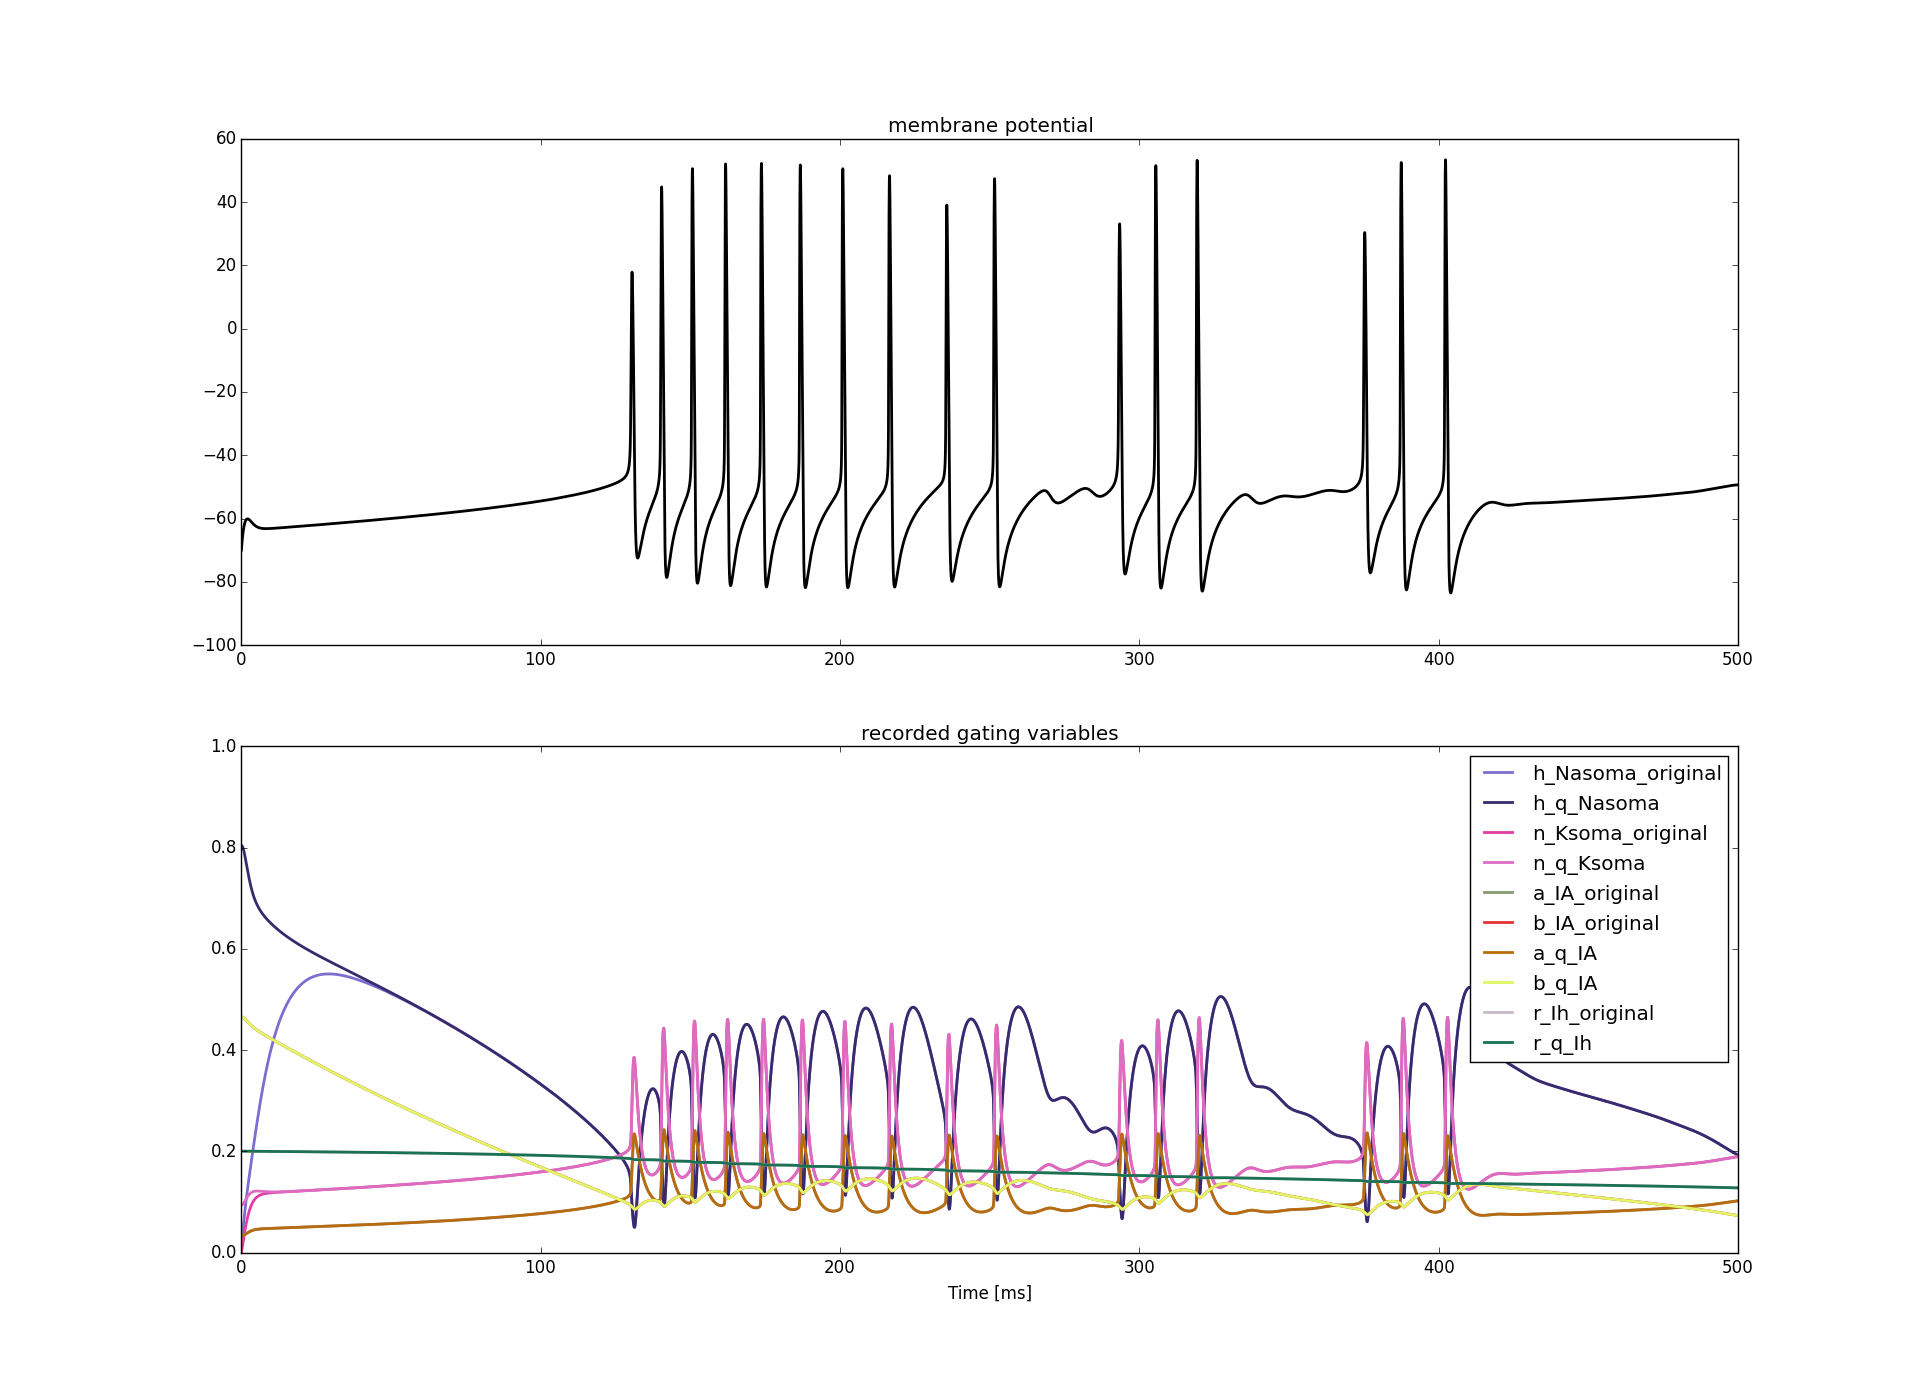
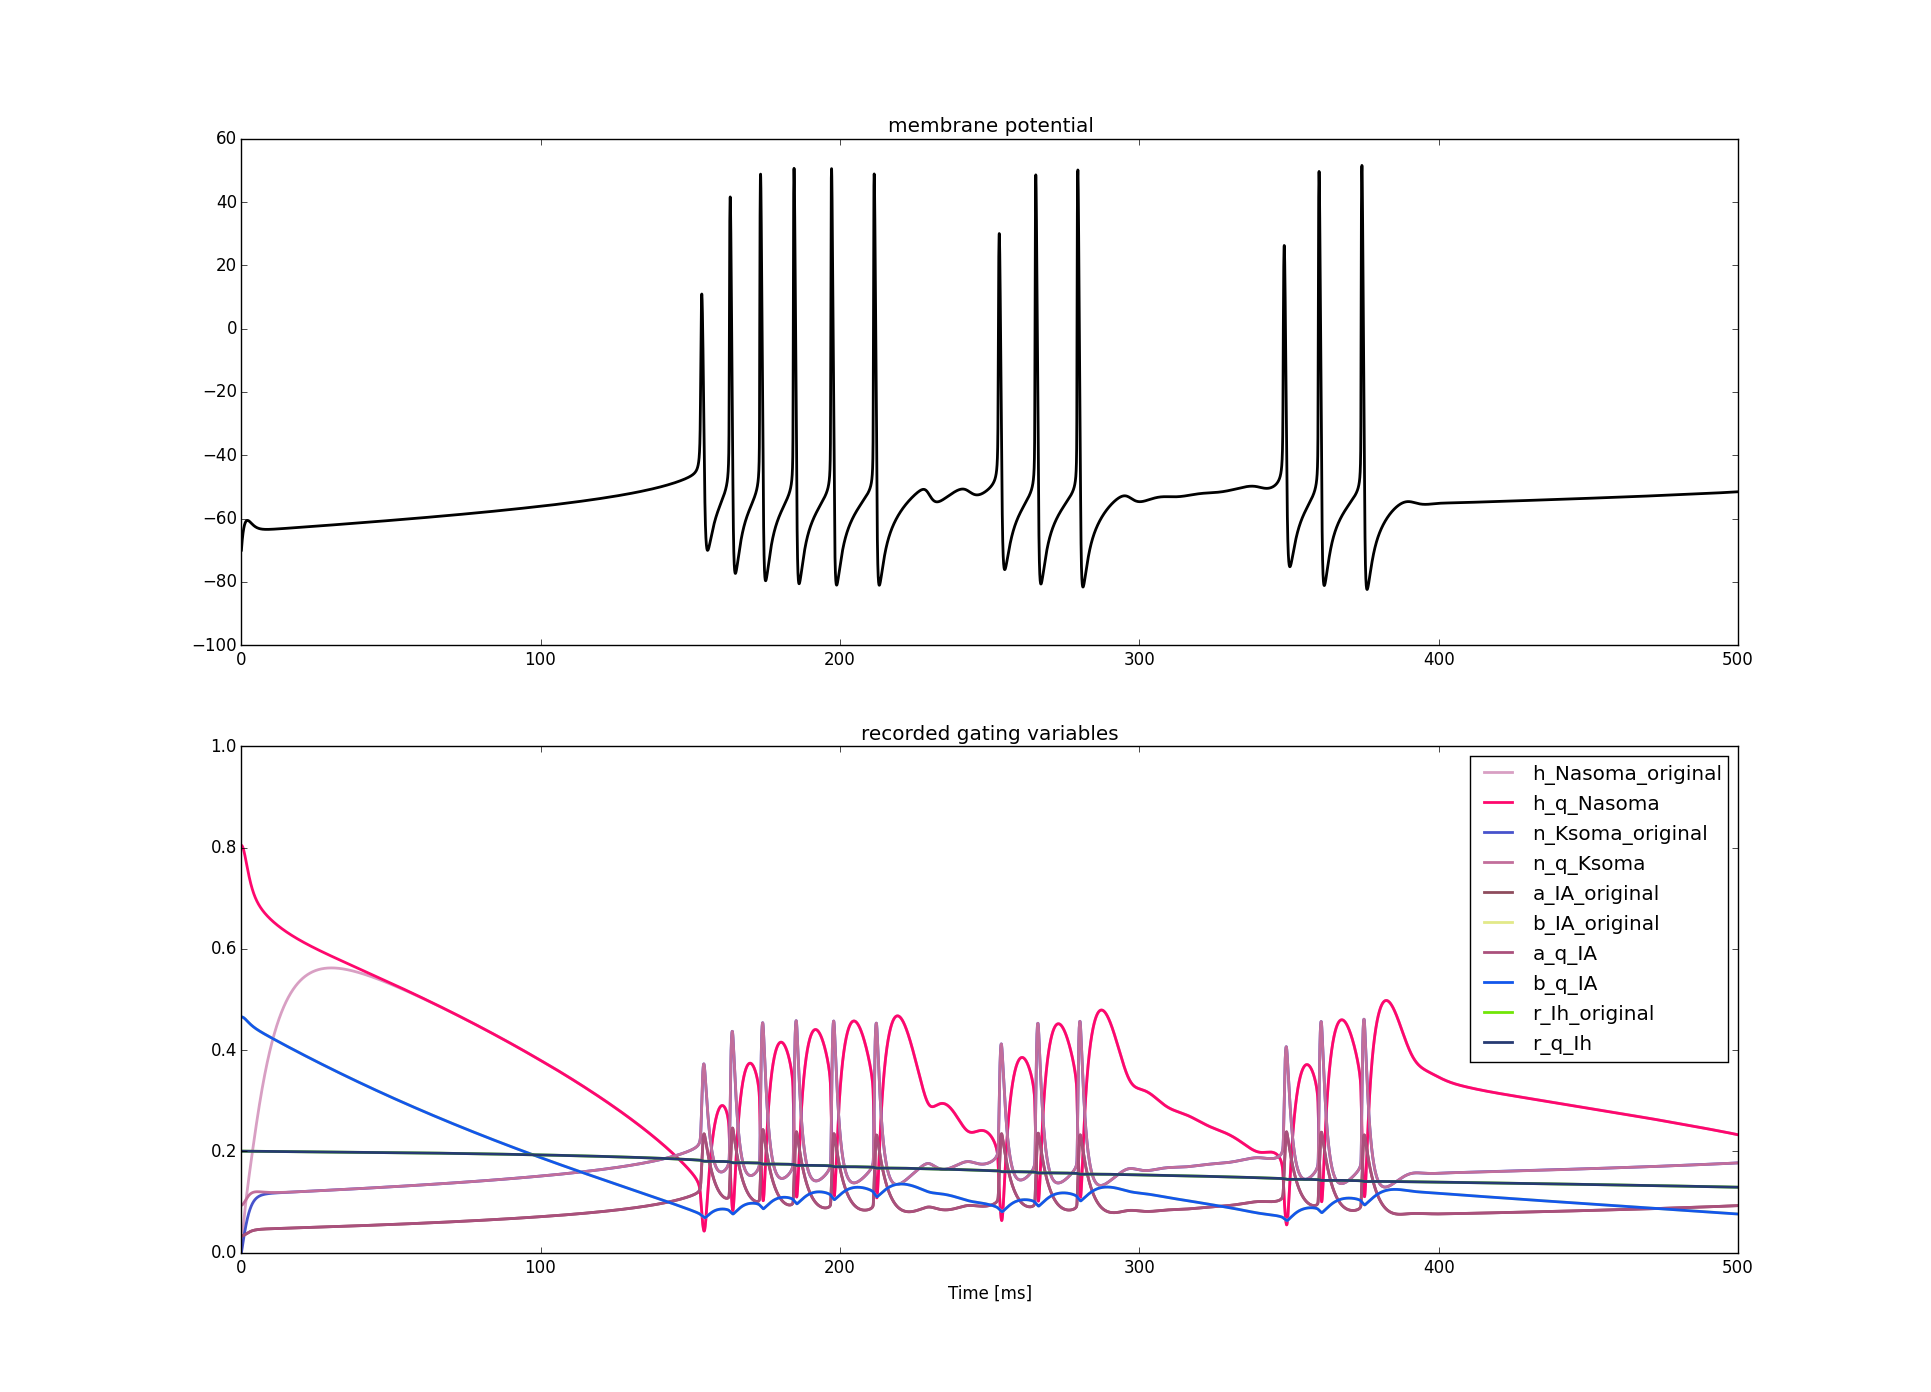
passive properties added

diff --git a/scct.py b/scct.py
@@ -5,7 +5,7 @@ from subprocess import Popen, PIPE
 
 def preprocess(conf):
 
-    conf["resistivity"] = 1.0/conf.get("passive", {'g':1})['g']
+    conf["resistivity"] = 1.0/float(conf.get("passive", {'g':1})['g'])
 
     return conf
 
